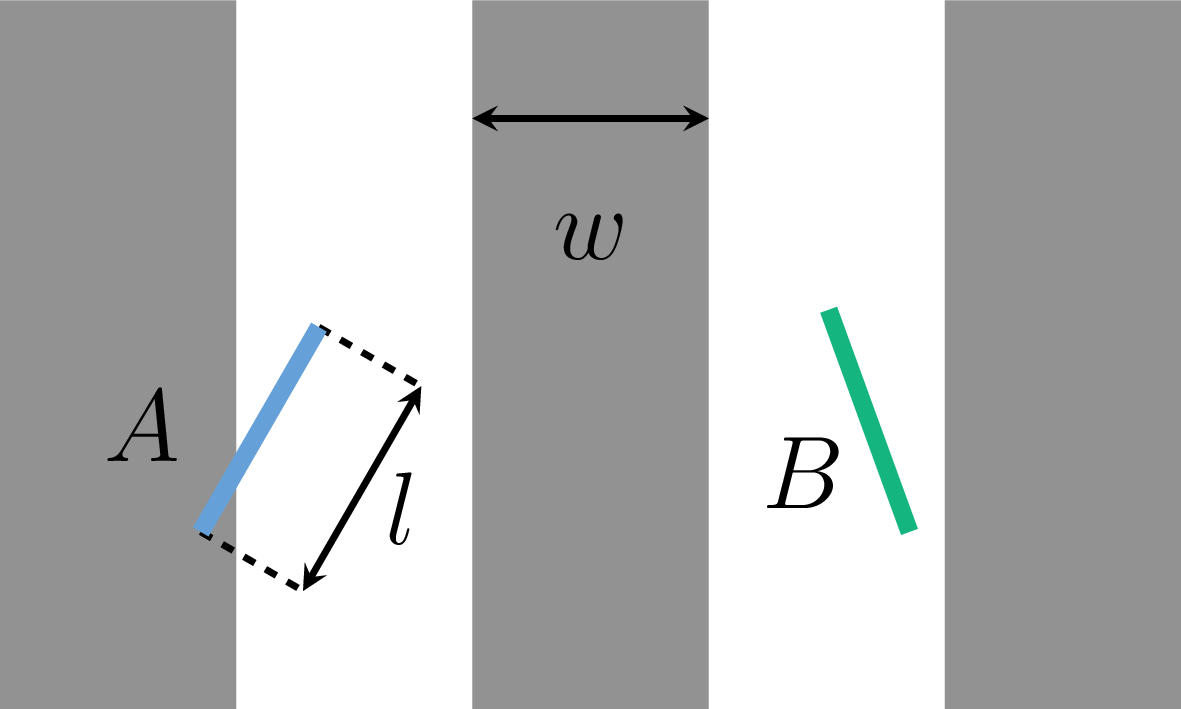
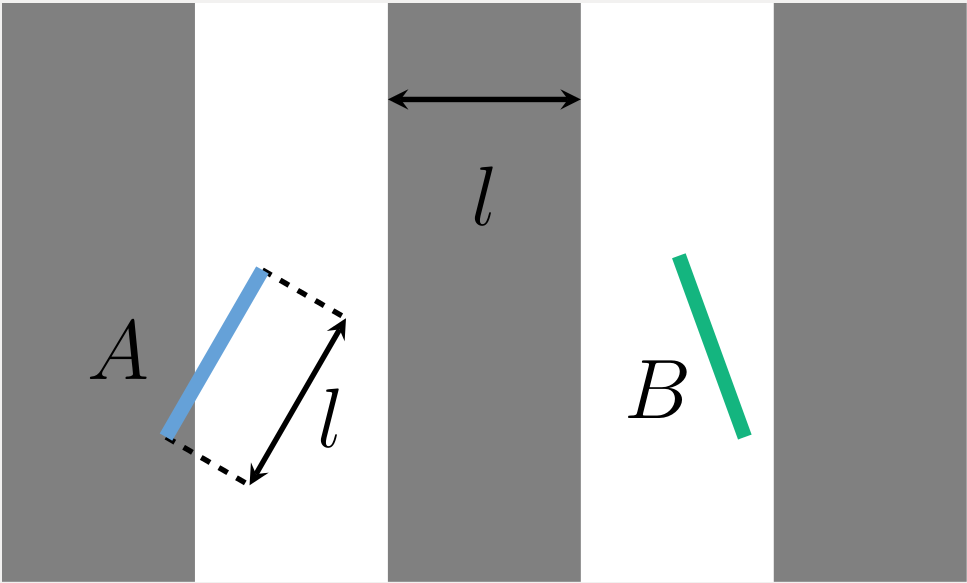
Length of needle is equal to width of board

diff --git a/lectures/figures/buffon.tex b/lectures/figures/buffon.tex
@@ -43,7 +43,7 @@
 		\draw (3.4,1) node {\Huge $B$};
 
 		\draw[black, >=stealth, <->, ultra thick] (2,2.5) -- (3,2.5);
-		\draw (2.5,2) node {\Huge $w$};
+		\draw (2.5,2) node {\Huge $l$};
 	\end{tikzpicture}
 
 \end{document}
